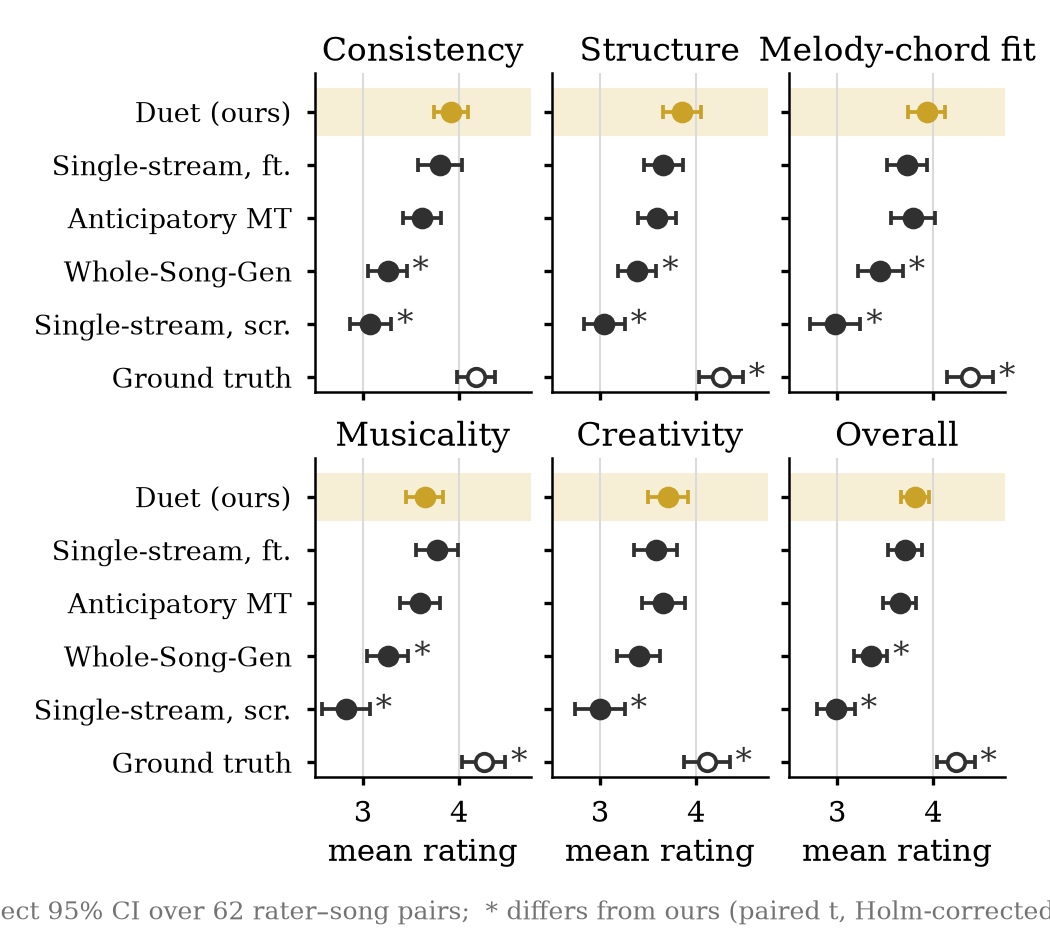
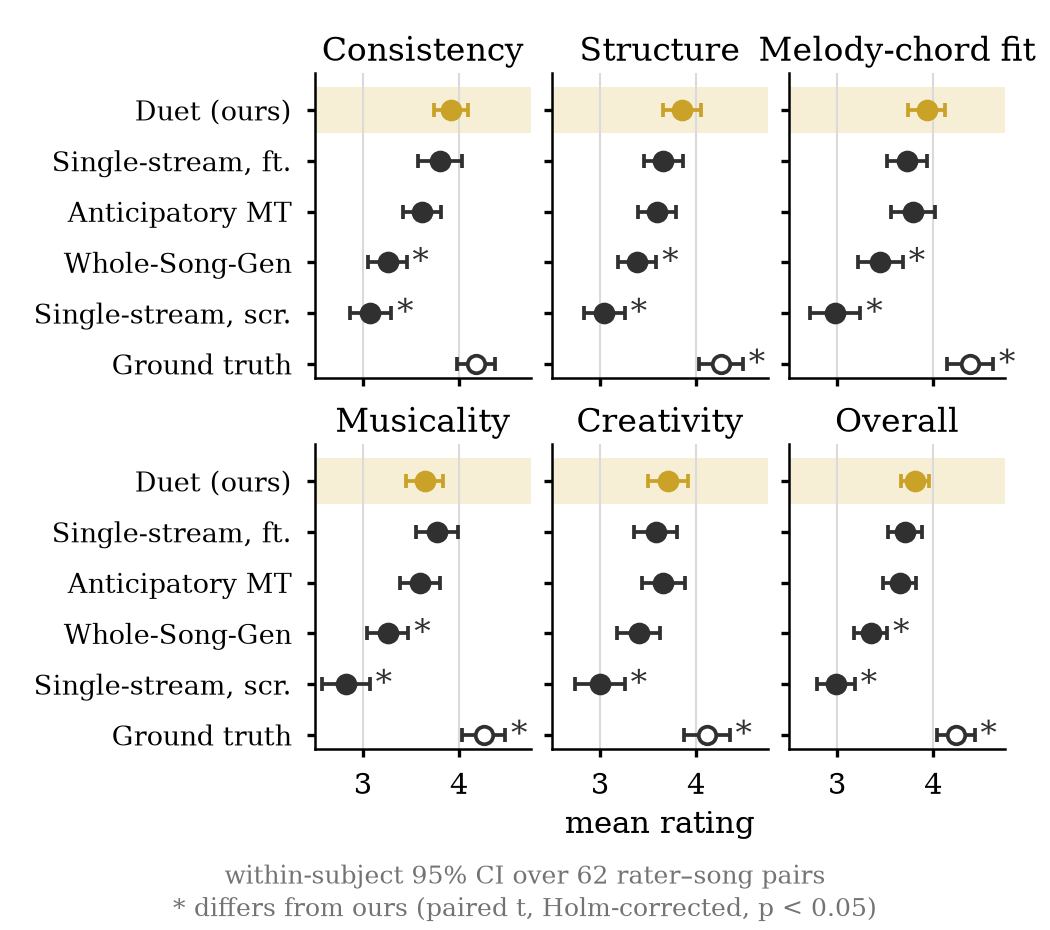
Subjective dot figure: footnote on two lines, one x label
Claude-Session: https://claude.ai/code/session_012w7PFbJyWP4meVE3CJpfno

diff --git a/midi_yinyang/figures/plot_subjective_dots.py b/midi_yinyang/figures/plot_subjective_dots.py
@@ -94,13 +94,12 @@ def main():
         ax.tick_params(length=2)
         for sp in ('top', 'right'):
             ax.spines[sp].set_visible(False)
-    for ax in axes[1]:
-        ax.set_xlabel('mean rating', labelpad=2)
+    axes[1, 1].set_xlabel('mean rating', labelpad=2)
     fig.text(0.5, 0.005,
-             f'within-subject 95% CI over {n} rater–song pairs;  * differs from ours '
-             '(paired t, Holm-corrected, p < 0.05)',
-             ha='center', va='bottom', fontsize=6, color=INK_2)
-    fig.tight_layout(rect=(0, 0.03, 1, 1), h_pad=0.6, w_pad=0.4)
+             f'within-subject 95% CI over {n} rater–song pairs\n'
+             '* differs from ours (paired t, Holm-corrected, p < 0.05)',
+             ha='center', va='bottom', fontsize=6, color=INK_2, linespacing=1.3)
+    fig.tight_layout(rect=(0, 0.06, 1, 1), h_pad=0.6, w_pad=0.4)
     for ext in ('pdf', 'png'):
         fig.savefig(f'{args.out}.{ext}', dpi=300)
         print('wrote', f'{args.out}.{ext}')
